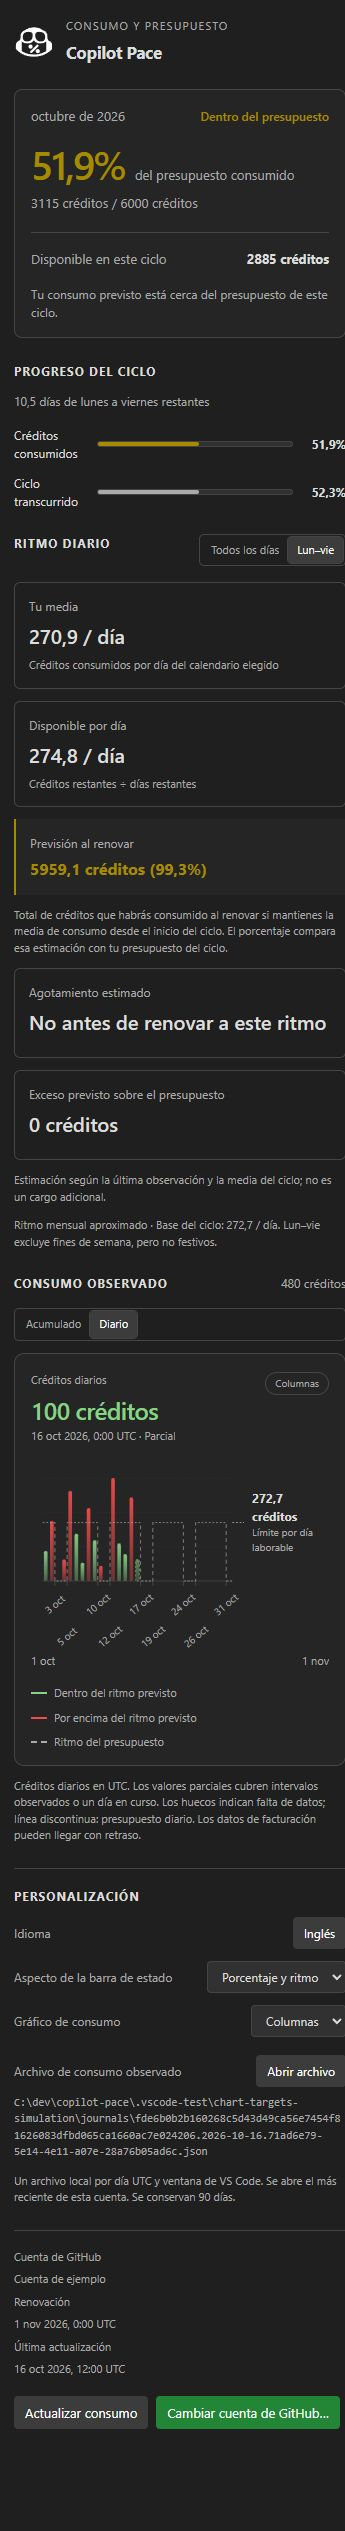
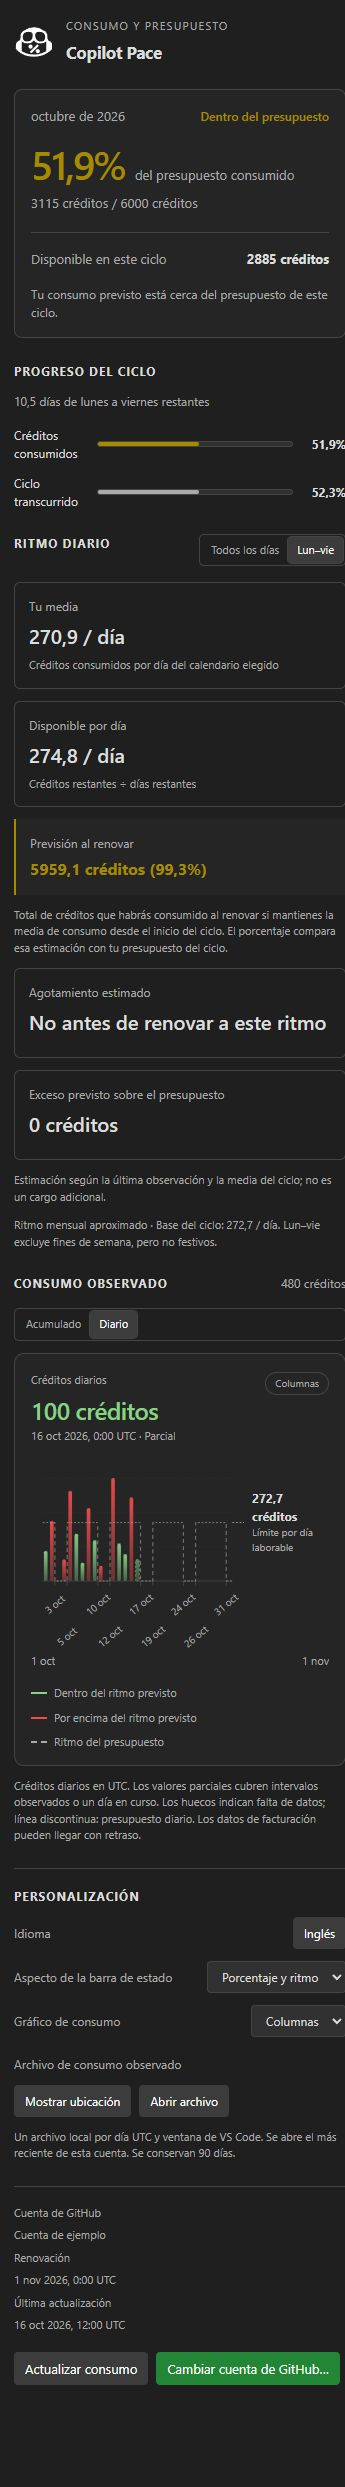
Replace visible history path with a Show location button

diff --git a/src/presentation.ts b/src/presentation.ts
@@ -313,7 +313,7 @@ export function renderHtml(model: ViewModel, nonce: string, iconUri = '', cspSou
     font-size: 12px;
   }
 
-  .customization-row label {
+  .customization-row label,.customization-row > span {
     color: var(--muted);
   }
 
@@ -564,15 +564,6 @@ export function renderHtml(model: ViewModel, nonce: string, iconUri = '', cspSou
 
   .history-file {
     margin-top: 18px;
-  }
-
-  #historyPath {
-    display: block;
-    overflow-wrap: anywhere;
-    margin-top: 8px;
-    font-size: 11px;
-    color: var(--muted);
-    user-select: text;
   }
 
   button:disabled {
@@ -914,10 +905,12 @@ export function renderHtml(model: ViewModel, nonce: string, iconUri = '', cspSou
     </div>
     <div class="history-file">
       <div class="customization-row">
-        <label id="historyFileLabel" for="openHistory"></label>
-        <button id="openHistory"></button>
+        <span id="historyFileLabel"></span>
+        <div class="controls" role="group" aria-labelledby="historyFileLabel">
+          <button id="revealHistory"></button>
+          <button id="openHistory"></button>
+        </div>
       </div>
-      <code id="historyPath"></code>
       <p id="historyFileNote" class="explanation"></p>
     </div>
   </section>
@@ -1026,7 +1019,7 @@ function show(model) {
     'statusStyleLabel', 'styleText', 'styleCompact', 'styleBar', 'styleDots',
     'customizationHeading', 'languageLabel',
     'chartStyleLabel', 'chartLine', 'chartColumns', 'metricCumulative', 'metricDaily',
-    'historyFileLabel', 'openHistory',
+    'historyFileLabel', 'openHistory', 'revealHistory',
     'historyObservedLabel', 'historyWithinLabel', 'historyOverLabel', 'historyBudgetLabel', 'historyColumnsNote',
   ];
   for (const id of labelIds) {
@@ -1042,7 +1035,7 @@ function show(model) {
     'cycleProgress', 'daysLeft', 'period', 'baseRate', 'accountLabel',
     'depletion', 'excess', 'historyMaximum', 'historyStart', 'historyEnd', 'historyMessage',
     'historyLatest', 'chartStyleName', 'historyMetricLabel', 'historyLatestDate',
-    'historyBudgetTarget', 'historyBudgetTargetHint', 'historyPath',
+    'historyBudgetTarget', 'historyBudgetTargetHint',
   ];
   for (const id of valueIds) {
     document.getElementById(id).textContent = model[id];
@@ -1050,6 +1043,7 @@ function show(model) {
   document.getElementById('statusStyle').value = model.statusStyle;
   document.getElementById('chartStyle').value = model.chartStyle;
   document.getElementById('openHistory').disabled = !model.canOpenHistory;
+  document.getElementById('revealHistory').disabled = !model.canOpenHistory;
   let fileNote = model.text.historyFileEmpty;
   if (model.demo) fileNote = model.text.historyDemo;
   else if (model.canOpenHistory) fileNote = model.text.historyFileNote;
@@ -1109,6 +1103,7 @@ window.addEventListener('message', event => {
 document.getElementById('refresh').addEventListener('click', () => vscode.postMessage({ action: 'refresh' }));
 document.getElementById('connect').addEventListener('click', () => vscode.postMessage({ action: 'connect' }));
 document.getElementById('openHistory').addEventListener('click', () => vscode.postMessage({ action: 'openHistory' }));
+document.getElementById('revealHistory').addEventListener('click', () => vscode.postMessage({ action: 'revealHistory' }));
 document.getElementById('language').addEventListener('click', () => {
   vscode.postMessage({ action: 'language', value: currentLanguage === 'en' ? 'es-ES' : 'en' });
 });

diff --git a/test/unit/connection-activation.test.ts b/test/unit/connection-activation.test.ts
@@ -38,6 +38,7 @@ function harness(initial: Record<string, unknown> = {}, options: {
   const pickedChoices: string[][] = [];
   const openedFiles: string[] = [];
   const shownFiles: string[] = [];
+  const revealedFiles: string[] = [];
   let choice: string | undefined;
   const disposable = { dispose() { } };
   const fireConfiguration = (key: string) => configurationListeners.forEach(listener => listener({
@@ -54,7 +55,9 @@ function harness(initial: Record<string, unknown> = {}, options: {
         commands.set(id, callback);
         return disposable;
       },
-      executeCommand: async () => { },
+      executeCommand: async (id: string, uri?: { fsPath: string }) => {
+        if (id === 'revealFileInOS' && uri) revealedFiles.push(uri.fsPath);
+      },
     },
     window: {
       createStatusBarItem: () => ({ text: '', show() { }, dispose() { } }),
@@ -151,7 +154,7 @@ function harness(initial: Record<string, unknown> = {}, options: {
   });
   const api = module.exports.activate(context as unknown as vscode.ExtensionContext) as TestApi;
   return {
-    api, authCalls, requests, allRequests, settings, pickedChoices, openedFiles, shownFiles,
+    api, authCalls, requests, allRequests, settings, pickedChoices, openedFiles, shownFiles, revealedFiles,
     choose: (provider: string | undefined) => { choice = provider; },
     connect: () => commands.get('copilotPace.connect')!(),
     completeRequest: (index: number) => responses[index]!(),
@@ -238,11 +241,14 @@ describe('Connection integration with native VS Code services', () => {
     try {
       const deadline = Date.now() + 5000;
       while (!host.api.getModel().canOpenHistory) {
-        assert.ok(Date.now() < deadline, 'Journal path was not exposed');
+        assert.ok(Date.now() < deadline, 'Journal actions did not become available');
         await settle();
       }
-      const file = host.api.getModel().historyPath;
-      assert.equal(file, await new HistoryStore(directory).latestFile(historyIdentity('github', 'https://github.com', 'same-account-id')));
+      const file = await new HistoryStore(directory).latestFile(historyIdentity('github', 'https://github.com', 'same-account-id'));
+      assert.ok(file);
+      assert.ok(!JSON.stringify(host.api.getModel()).includes(directory));
+      await host.api.receiveMessage({ action: 'revealHistory', value: 'C:\\untrusted-path.json' });
+      assert.deepEqual(host.revealedFiles, [file]);
       await host.api.receiveMessage({ action: 'openHistory', value: 'C:\\untrusted-path.json' });
       assert.deepEqual(host.openedFiles, [file]);
       assert.deepEqual(host.shownFiles, [file]);
@@ -255,12 +261,13 @@ describe('Connection integration with native VS Code services', () => {
       authenticated = false;
       host.sessionChanged('github');
       assert.equal(host.api.getModel().canOpenHistory, false);
-      assert.equal(host.api.getModel().historyPath, directory);
       completeOpen();
       await pendingOpen;
       assert.deepEqual(host.shownFiles, [file]);
       await host.api.receiveMessage({ action: 'openHistory' });
+      await host.api.receiveMessage({ action: 'revealHistory' });
       assert.equal(host.openedFiles.length, 2);
+      assert.deepEqual(host.revealedFiles, [file]);
     } finally {
       host.dispose();
       await rm(directory, { recursive: true, force: true });

diff --git a/src/extension.ts b/src/extension.ts
@@ -255,7 +255,7 @@ class CopilotPace implements vscode.Disposable {
       }
     }
   }
-  private async openHistory() {
+  private async showHistoryFile(action: 'open' | 'reveal') {
     if (this.demo || !this.historyKey || !this.historyStore) return;
     const key = this.historyKey;
     try {
@@ -268,10 +268,18 @@ class CopilotPace implements vscode.Disposable {
         void vscode.window.showInformationMessage(getStrings(this.language).historyFileUnavailable);
         return;
       }
-      const document = await vscode.workspace.openTextDocument(vscode.Uri.file(file));
+      const uri = vscode.Uri.file(file);
+      if (action === 'reveal') {
+        await vscode.commands.executeCommand('revealFileInOS', uri);
+        return;
+      }
+      const document = await vscode.workspace.openTextDocument(uri);
       if (!this.disposed && this.historyKey === key) await vscode.window.showTextDocument(document, { preview: true });
     } catch {
-      if (!this.disposed && this.historyKey === key) void vscode.window.showErrorMessage(getStrings(this.language).historyFileOpenError);
+      if (!this.disposed && this.historyKey === key) {
+        const text = getStrings(this.language);
+        void vscode.window.showErrorMessage(action === 'reveal' ? text.historyLocationError : text.historyFileOpenError);
+      }
     }
   }
   get model(): ViewModel {
@@ -279,7 +287,7 @@ class CopilotPace implements vscode.Disposable {
       this.service.nextAllowedAt, this.language, {
         statusStyle: this.statusStyle, chartStyle: this.chartStyle, chartMetric: this.chartMetric,
         history: this.history, historyFailed: this.historyFailed,
-        historyDirectory: this.demo ? undefined : this.historyStore?.directory, historyFile: this.historyFile,
+        historyFileAvailable: !this.demo && !!this.historyFile,
       });
   }
   private render() {
@@ -332,7 +340,9 @@ class CopilotPace implements vscode.Disposable {
     } else if (data.action === 'connect') {
       await this.connect();
     } else if (data.action === 'openHistory') {
-      await this.openHistory();
+      await this.showHistoryFile('open');
+    } else if (data.action === 'revealHistory') {
+      await this.showHistoryFile('reveal');
     } else if (data.action === 'dayMode' && (data.value === 'all' || data.value === 'weekdays')) {
       await this.updateConfig('dayMode', data.value);
     } else if (data.action === 'language' && (data.value === 'en' || data.value === 'es-ES')) {

diff --git a/test/unit/presentation.test.ts b/test/unit/presentation.test.ts
@@ -136,19 +136,22 @@ describe('Forecast, history and appearance presentation', () => {
     for (const value of ['area', undefined, 'invalid', '__proto__']) assert.equal(resolveChartStyle(value), 'line');
     assert.equal(resolveChartStyle('columns'), 'columns');
   });
-  it('shows the trusted journal path and sends only an open action, clearing it when unavailable', () => {
-    const file = 'C:\\example\\history\\account.2026-10-16.window.json';
-    const available = createViewModel({ phase: 'ready', snapshot }, demoClock, 'all', false, '', 0, 'es-ES', { historyFile: file });
+  it('offers file and location actions without exposing a path and disables both when unavailable', () => {
+    const available = createViewModel({ phase: 'ready', snapshot }, demoClock, 'all', false, '', 0, 'es-ES', { historyFileAvailable: true });
     const messages: unknown[] = [];
     const elements = panelElements(available, [], messages);
-    assert.equal(elements.get('historyPath')!.textContent, file);
+    assert.equal(elements.has('historyPath'), false);
     assert.equal(elements.get('openHistory')!.disabled, false);
+    assert.equal(elements.get('revealHistory')!.disabled, false);
+    assert.equal(elements.get('revealHistory')!.textContent, 'Mostrar ubicación');
+    elements.get('revealHistory')!.click();
+    assert.equal(JSON.stringify(messages.at(-1)), JSON.stringify({ action: 'revealHistory' }));
     elements.get('openHistory')!.click();
     assert.equal(JSON.stringify(messages.at(-1)), JSON.stringify({ action: 'openHistory' }));
-    const empty = createViewModel({ phase: 'disconnected' }, demoClock, 'all', false, '', 0, 'en', { historyDirectory: 'C:\\example\\history' });
+    const empty = createViewModel({ phase: 'disconnected' }, demoClock, 'all', false, '', 0);
     const cleared = panelElements(available, [empty]);
     assert.equal(cleared.get('openHistory')!.disabled, true);
-    assert.equal(cleared.get('historyPath')!.textContent, 'C:\\example\\history');
+    assert.equal(cleared.get('revealHistory')!.disabled, true);
   });
   it('localizes appearance controls, sends the selected style and reports storage errors', () => {
     const model = createViewModel({ phase: 'ready', snapshot }, demoClock, 'all', false, '', 0, 'es-ES', { statusStyle: 'dots', historyFailed: true });

diff --git a/src/i18n.ts b/src/i18n.ts
@@ -66,8 +66,10 @@ const english = {
   historyWeekdayTarget: 'Limit per weekday',
   historyFileLabel: 'Observed usage file',
   openHistory: 'Open file',
+  revealHistory: 'Show location',
+  historyLocationError: 'The observed usage file location could not be opened.',
   historyFileNote: 'One local file per UTC day and VS Code window. Opens the most recent file for this account. Retained for 90 days.',
-  historyFileEmpty: 'The storage folder is shown below. A file becomes available after a successful GitHub usage refresh.',
+  historyFileEmpty: 'The file and its location become available after a successful GitHub usage refresh.',
   historyFileUnavailable: 'No observed usage file is available for this account yet.',
   historyFileOpenError: 'The observed usage file could not be opened.',
   historyMetricLabel: 'Cumulative credits',
@@ -198,8 +200,10 @@ const spanish: Strings = {
   historyWeekdayTarget: 'Límite por día laborable',
   historyFileLabel: 'Archivo de consumo observado',
   openHistory: 'Abrir archivo',
+  revealHistory: 'Mostrar ubicación',
+  historyLocationError: 'No se ha podido abrir la ubicación del archivo de consumo observado.',
   historyFileNote: 'Un archivo local por día UTC y ventana de VS Code. Se abre el más reciente de esta cuenta. Se conservan 90 días.',
-  historyFileEmpty: 'Debajo se muestra la carpeta de almacenamiento. El archivo estará disponible tras consultar correctamente el consumo en GitHub.',
+  historyFileEmpty: 'El archivo y su ubicación estarán disponibles tras consultar correctamente el consumo en GitHub.',
   historyFileUnavailable: 'Todavía no hay un archivo de consumo observado disponible para esta cuenta.',
   historyFileOpenError: 'No se ha podido abrir el archivo de consumo observado.',
   historyMetricLabel: 'Créditos acumulados',

diff --git a/src/view.ts b/src/view.ts
@@ -51,10 +51,10 @@ export interface ViewModel {
   historyColumns: ViewModel['history'];
   historyBudgetTarget: string; historyBudgetTargetY: number; historyBudgetTargetHint: string;
   historyCalendarTicks: Array<{ x: number; label: string; weekend: boolean }>;
-  historyPath: string; canOpenHistory: boolean;
+  canOpenHistory: boolean;
 }
 export function createViewModel(state: ServiceState, clock: Clock, dayMode: DayMode, demo: boolean, scenario: string, retryAt: number, language: Language = 'en',
-  options: { statusStyle?: StatusStyle; chartStyle?: ChartStyle; chartMetric?: ChartMetric; history?: readonly Observation[]; historyFailed?: boolean; historyDirectory?: string; historyFile?: string } = {}): ViewModel {
+  options: { statusStyle?: StatusStyle; chartStyle?: ChartStyle; chartMetric?: ChartMetric; history?: readonly Observation[]; historyFailed?: boolean; historyFileAvailable?: boolean } = {}): ViewModel {
   const { statusStyle: style = 'text', chartStyle = 'line', chartMetric = 'cumulative', history = [], historyFailed = false } = options;
   const text = getStrings(language);
   const formatter = formatters[language];
@@ -206,7 +206,7 @@ export function createViewModel(state: ServiceState, clock: Clock, dayMode: DayM
     historyBudget: budget,
     historyBudgetTarget, historyBudgetTargetY, historyBudgetTargetHint,
     historyCalendarTicks,
-    historyPath: options.historyFile ?? options.historyDirectory ?? '', canOpenHistory: !demo && !!options.historyFile,
+    canOpenHistory: !demo && !!options.historyFileAvailable,
     historyMessage,
     chartStyle, chartMetric, chartStyleName: { line: text.chartLine, columns: text.chartColumns }[chartStyle],
     historyMetricLabel: dailyMode ? text.historyDailyLabel : text.historyMetricLabel,

diff --git a/src/history.ts b/src/history.ts
@@ -54,7 +54,7 @@ export function observation(snapshot: Snapshot): Observation | undefined {
 export class HistoryStore {
   private readonly pending = new Map<string, Promise<Observation[]>>();
   private readonly writer = randomUUID();
-  constructor(readonly directory: string, private readonly clock: Clock = systemClock) {}
+  constructor(private readonly directory: string, private readonly clock: Clock = systemClock) {}
 
   private validateIdentity(identity: string) {
     if (!/^[a-f0-9]{64}$/.test(identity)) throw new Error('Invalid history identity');

diff --git a/docs/reviews/chart-targets/README.md b/docs/reviews/chart-targets/README.md
@@ -12,7 +12,7 @@ October 21, 2026. These are browser captures of the extension's generated detail
 - Every-day reference: 6,000 / 31 = 193.5 credits per day. Mon–Fri reference: 6,000 / 22 = 272.7 credits per weekday, with zero budget on weekends.
 - Projected cycle totals: 6,230 credits for Every day; 5,959.1 credits for Mon–Fri. These estimates apply the cycle average, not just the last day's spending.
 
-The same fixture was checked for both sources, both metrics, both calendars and both remaining chart styles: 16 combinations. The local journal path in the panel captures belongs to this synthetic fixture.
+The same fixture was checked for both sources, both metrics, both calendars and both remaining chart styles: 16 combinations. File controls in the panel captures refer to this synthetic fixture. The follow-up replaces the visible path with Show location, keeping Open file alongside it.
 
 ## Captures
 
@@ -24,17 +24,17 @@ The same fixture was checked for both sources, both metrics, both calendars and 
 | [Cumulative, local fixture](cumulative-local.png) | The same cumulative observations; API data does not change the saved quota history |
 | [Spanish, dark](panel-dark-es.png) | Full panel, projection explanation and local journal controls |
 | [English, light](panel-light-en.png) | Full panel after changing language, style and calendar through the controls |
-| [360-pixel panel](panel-narrow.png) | Short weekend dates staggered into two rows, wrapped file path and controls |
+| [360-pixel panel](panel-narrow.png) | Short weekend dates staggered into two rows and responsive file/location controls |
 
 ## Validation
 
-Windows 11, standalone Node 26.11.1 / npm 11.20.0, working tree based on `929291f5a43ed96bbc440483ba863bf12ff108e2`:
+Windows 11, standalone Node 26.11.1 / npm 11.20.0, location-button follow-up working tree based on `4ab1f1c6278de97aa8af6aeccecfdf4dc540355d`:
 
 - `npm run check`: lint/types, 297 unit/service/activation tests and 8 release-script tests passed.
 - `npm run test:integration`: 21 tests passed on each of VS Code 1.120.0 and 1.141.0.
 - `npm run test:package`: all 8 installed-production tests and content inspection passed. The production package excludes demos and these review files.
[2 lines of base64/hex data omitted]
 - Regressions cover target values, UTC weekend dates, unknown budgets, Area-to-Line fallback, localized hover totals/explanations, journal selection across windows, rejected external paths and account disconnection during an open operation.
-- Browser interaction checks exercised language, style and calendar controls. Real-file routing was tested with the extension-host service harness; no signed-in account or corporate-network acceptance was performed.
+- Browser interaction checks exercised language, style and calendar controls. File-open and native reveal-command routing were tested with the extension-host service harness; no signed-in account or corporate-network acceptance was performed.
 
 Remote CI validates the PR's pushed revision independently. The published 1.3.0 pilot and stable 1.2.1 retain their tags and assets.

diff --git a/docs/architecture.md b/docs/architecture.md
@@ -29,7 +29,7 @@ The status item is right-aligned with priority 100.05. The hover shows the accou
 
 Pace states use `charts.green`, `charts.yellow` and `charts.red`. The panel's `data-tone` attribute applies the same color to status, percentage, usage bar and forecast. Stale, disconnected and unavailable states clear the pace color. CSS theme variables follow editor theme changes.
 
-The hover escapes dynamic Markdown values and enables commands through `hoverCommands`. Its only HTML is a fixed status `span` using a theme color. The webview uses a nonce-based CSP, restricted local images and `textContent` for dynamic values. Its message handler accepts `ready`, `refresh`, `connect`, `openHistory`, `dayMode` (`all` or `weekdays`), `language` (`en` or `es-ES`), `statusStyle` (`text`, `compact`, `bar` or `dots`), `chartStyle` (`line` or `columns`) and `chartMetric` (`cumulative` or `daily`). The history action resolves a journal from the active account identity in the extension host; it never accepts a path from the webview. Account changes clear the displayed file and invalidate pending file lookups/opens. History content does not become a webview resource.
+The hover escapes dynamic Markdown values and enables commands through `hoverCommands`. Its only HTML is a fixed status `span` using a theme color. The webview uses a nonce-based CSP, restricted local images and `textContent` for dynamic values. Its message handler accepts `ready`, `refresh`, `connect`, `openHistory`, `revealHistory`, `dayMode` (`all` or `weekdays`), `language` (`en` or `es-ES`), `statusStyle` (`text`, `compact`, `bar` or `dots`), `chartStyle` (`line` or `columns`) and `chartMetric` (`cumulative` or `daily`). History actions resolve a journal from the active account identity in the extension host; they never accept a path from the webview. Paths remain in the host; the model exposes only whether the actions are available. Account changes disable the actions and invalidate pending file lookups/opens. History content does not become a webview resource.
 
 `copilotPace.statusStyle` defaults to the existing percentage-and-pace label. Compact, segmented and dot indicators use native status item text; errors and pending estimates remain explicit, and accessibility labels retain the percentage and pace. The dropdown changes only presentation. A divided **Customization / Personalización** section below the history chart groups language, status appearance and chart style; account and refresh controls remain in the footer.
 

diff --git a/README.md b/README.md
@@ -91,7 +91,7 @@ Green marks values within the budget pace; red marks values above it. Daily char
 
 The dashed reference ends with the cycle budget in Cumulative mode or the average daily limit in Daily mode. Mon–Fri daily charts label the Saturday/Monday transitions with short UTC dates. **Projected at renewal** estimates the total credits used by renewal if your cycle average continues; its explanation appears below the estimate. The status hover also shows total credits used.
 
-Customization shows the local observed-usage path and an **Open file** button. Pace stores separate journals per UTC day and VS Code window; the button opens the most recent file for the active account. Before a journal exists, the storage folder is shown and the button is disabled.
+Customization provides **Show location** to reveal the most recent observed-usage file in the system file manager, and **Open file** to inspect it in VS Code. Pace stores separate journals per UTC day and VS Code window. Both actions use the active account and remain disabled until a journal exists; file paths are not displayed in the panel.
 
 ## How the estimate works
 

diff --git a/docs/MARKETPLACE.md b/docs/MARKETPLACE.md
@@ -91,7 +91,7 @@ Green marks values within the budget pace; red marks values above it. Daily char
 
 The dashed reference ends with the cycle budget in Cumulative mode or the average daily limit in Daily mode. Mon–Fri daily charts label the Saturday/Monday transitions with short UTC dates. **Projected at renewal** estimates the total credits used by renewal if your cycle average continues; its explanation appears below the estimate. The status hover also shows total credits used.
 
-Customization shows the local observed-usage path and an **Open file** button. Pace stores separate journals per UTC day and VS Code window; the button opens the most recent file for the active account. Before a journal exists, the storage folder is shown and the button is disabled.
+Customization provides **Show location** to reveal the most recent observed-usage file in the system file manager, and **Open file** to inspect it in VS Code. Pace stores separate journals per UTC day and VS Code window. Both actions use the active account and remain disabled until a journal exists; file paths are not displayed in the panel.
 
 ## How the estimate works
 

diff --git a/CHANGELOG.md b/CHANGELOG.md
@@ -7,7 +7,7 @@ Versions 0.1.x were local development builds; 0.2.x, 1.1.0, 1.2.0 and 1.3.0 are 
 - Label chart budget targets and daily weekend transitions with short UTC dates.
 - Keep Line and Columns chart styles; existing Gradient area preferences display as Line.
 - Explain projected usage at renewal and show total used credits in the status hover.
-- Show the observed-usage journal path in Customization and open the active account's latest file.
+- Reveal the active account's observed-usage file location from Customization or open the file in VS Code.
 
 ## [1.3.0] - 2026-10-21
 
